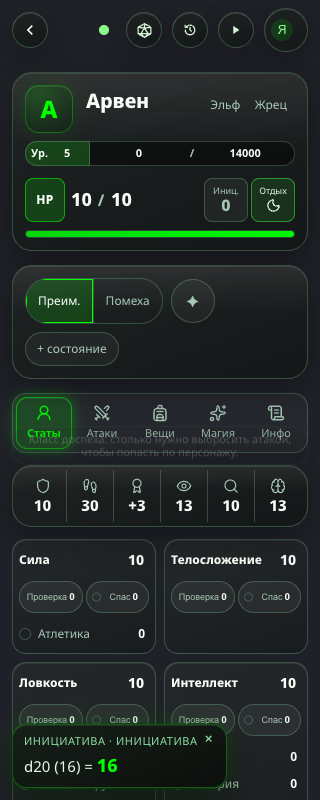
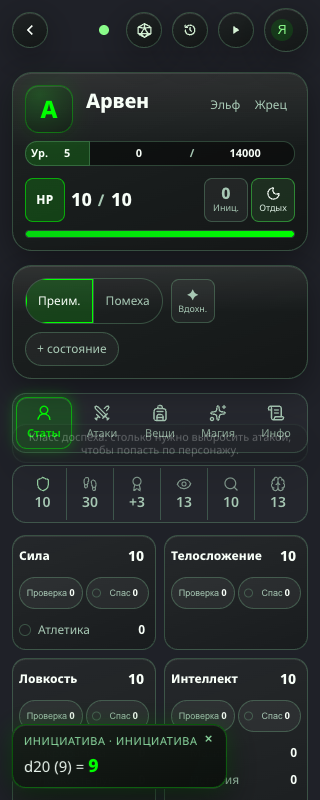
style(character-sheet): the strip of looked-up numbers is quiet
It is reference, not a control: no glass panel and no shadow - a thin frame
and a faint fill; the numbers and icons in the dim colour, lighter in weight.

diff --git a/src/components/DndStatStrip.vue b/src/components/DndStatStrip.vue
@@ -1,5 +1,5 @@
 <template>
-  <section ref="root" class="dnd-stat-strip dnd-glass" aria-label="Показатели">
+  <section ref="root" class="dnd-stat-strip" aria-label="Показатели">
     <div v-for="item in items" :key="item.key" class="dnd-stat-cell" :class="{ 'is-open': open === item.key }">
       <!-- The whole cell explains itself on a tap; a value that can be set (setup mode) is a field under its icon. -->
       <button
@@ -91,18 +91,21 @@ onBeforeUnmount(clearTimer);
 </script>
 
 <style scoped>
-.dnd-stat-strip { display: grid; grid-auto-flow: column; grid-auto-columns: minmax(0, 1fr); min-width: 0; padding: 4px 6px; }
+/* Reference numbers, not controls: a quiet strip - a thin frame and a faint fill, no glass panel, no shadow. */
+.dnd-stat-strip { display: grid; grid-auto-flow: column; grid-auto-columns: minmax(0, 1fr); min-width: 0; padding: 2px 6px; border: 1px solid var(--dnd-glass-border); border-radius: 14px; background: rgba(var(--dnd-fill-rgb, 255, 255, 255), .025); }
 /* One height in both modes: switching between play and setup must not move what stands below. */
 .dnd-stat-cell { display: flex; flex-direction: column; align-items: center; justify-content: center; min-width: 0; height: 52px; }
 .dnd-stat-cell + .dnd-stat-cell { border-left: 1px solid var(--dnd-glass-border); }
 .dnd-stat-button { display: flex; flex-direction: column; align-items: center; justify-content: center; gap: 2px; width: 100%; min-width: 0; height: 52px; box-sizing: border-box; padding: 4px 2px; border: 0; border-radius: 10px; background: none; color: var(--dnd-text-dim); font: inherit; cursor: pointer; transition: background-color 150ms, color 150ms; }
 .dnd-stat-button.has-field { height: 24px; padding-block: 2px 0; }
-.dnd-stat-button strong { font-size: 15px; line-height: 1.2; font-weight: 800; color: var(--ui-text); font-variant-numeric: tabular-nums; }
+.dnd-stat-button strong { font-size: 14px; line-height: 1.2; font-weight: 600; color: var(--dnd-text-dim); font-variant-numeric: tabular-nums; }
+.dnd-stat-icon { opacity: .7; }
+.dnd-stat-cell.is-open .dnd-stat-icon, .dnd-stat-button:hover .dnd-stat-icon { opacity: 1; }
 .dnd-stat-icon { flex: none; }
 .dnd-stat-cell.is-open .dnd-stat-button, .dnd-stat-button:hover { color: var(--dnd-glass-accent); }
 .dnd-stat-button:focus-visible { outline: 2px solid var(--dnd-glass-accent); outline-offset: -2px; }
 /* The sheet's own field styles are scoped to it: a field here is dressed the same way by hand. */
-.dnd-stat-cell input { width: calc(100% - 6px); min-width: 0; height: 24px; box-sizing: border-box; margin-bottom: 2px; padding: 0; border: 1px solid var(--dnd-glass-border); border-radius: 8px; background: rgba(var(--dnd-fill-rgb, 255, 255, 255), .045); color: var(--ui-text); font: inherit; text-align: center; font-size: 15px; font-weight: 800; font-variant-numeric: tabular-nums; outline: none; appearance: textfield; -moz-appearance: textfield; transition: border-color 150ms, box-shadow 150ms, background-color 150ms; }
+.dnd-stat-cell input { width: calc(100% - 6px); min-width: 0; height: 24px; box-sizing: border-box; margin-bottom: 2px; padding: 0; border: 1px solid var(--dnd-glass-border); border-radius: 8px; background: rgba(var(--dnd-fill-rgb, 255, 255, 255), .045); color: var(--ui-text); font: inherit; text-align: center; font-size: 14px; font-weight: 600; font-variant-numeric: tabular-nums; outline: none; appearance: textfield; -moz-appearance: textfield; transition: border-color 150ms, box-shadow 150ms, background-color 150ms; }
 .dnd-stat-cell input:focus { background: var(--dnd-field-focus-bg, var(--ui-surface-subtle)); border-color: color-mix(in srgb, var(--dnd-glass-accent) 55%, transparent); box-shadow: 0 0 0 3px var(--dnd-glass-accent-soft); }
 .dnd-stat-cell input::-webkit-inner-spin-button, .dnd-stat-cell input::-webkit-outer-spin-button { -webkit-appearance: none; margin: 0; }
 .dnd-stat-help { position: fixed; bottom: auto; z-index: 1000; width: max-content; max-width: min(320px, calc(100vw - 24px)); box-sizing: border-box; margin: 0; white-space: normal; text-align: center; border-radius: 14px; }

diff --git a/docs/character-sheet-style.md b/docs/character-sheet-style.md
@@ -153,7 +153,7 @@
 | Чип | `.dnd-cs-state-list button`, `.dnd-cs-prof-group label` | пилюля; включённый — акцентный текст на `accent-soft` |
 | Точка-индикатор | `.dnd-cs-pip` | кружок 12 px; пустой — рамка, включённый — акцентная заливка со свечением, экспертиза — кольцо, половина — приглушённая заливка |
 | Полоса | `.dnd-cs-hp-bar`, `.dnd-cs-xp-bar` | дорожка `--dnd-well` с рамкой, акцентная заливка |
-| Полоска показателей | `DndStatStrip` | панель в один ряд: ячейки равной ширины через тонкий разделитель, в ячейке иконка 16 px приглушённым цветом и число 15 px / 800; открытая ячейка и наведение — иконка акцентом. Высота 52 px. Только телефон |
+| Полоска показателей | `DndStatStrip` | один ряд ячеек равной ширины через тонкий разделитель; в ячейке иконка 16 px и число 14 px / 600. **Тихая:** это справка, а не управление, поэтому она не панель — рамка, заливка `.025`, радиус 14, без стекла, размытия и тени; число и иконка приглушённым цветом (`--dnd-text-dim`, иконка на 70%). Открытая ячейка и наведение — иконка акцентом. Высота 52 px. Только телефон |
 | Тихая кнопка | `.dnd-cs-init-button`, `.dnd-cs-rest-button` | заливка `.03`–`.05`, приглушённый текст, наведение — `accent-soft`. Бросок инициативы — радиус 8, в конце строки HP, модификатор белым; «Отдых» — пилюля среди состояний |
 | Блок-предупреждение | `.dnd-cs-death` | строка внутри панели с рамкой цвета `--dnd-danger` на 40%, радиус 12, заливка `.04`; внутри — подписи, точки и кнопка броска. Точки провалов заливаются `--dnd-danger` |
 | Счётчик с тратой | `.dnd-cs-uses` | «− остаток/всего +»: квадратные кнопки по краям, «всего» — поле. Заряды умений и ячейки заклинаний |
